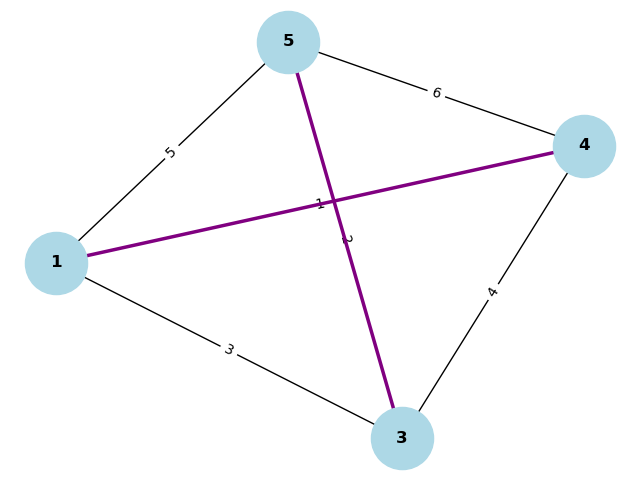
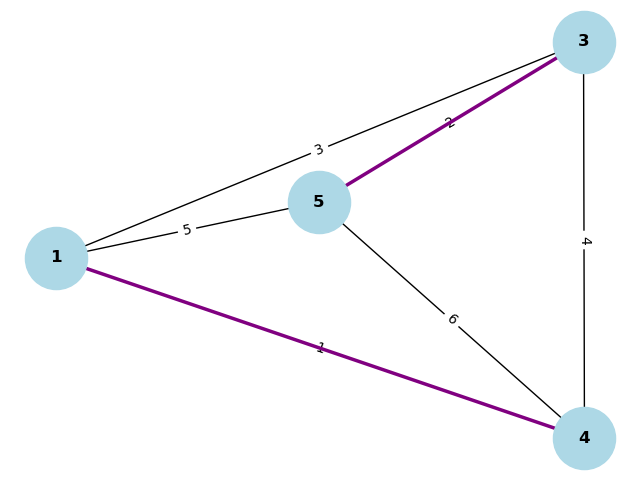
listonosz

diff --git a/lab03/main.py b/lab03/main.py
@@ -6,15 +6,15 @@ from collections import defaultdict
 class Graph:
     def __init__(self, directed=False):
         self.directed = directed
-        self.adj_matrix = []  # Macierz sąsiedztwa
-        self.weights_matrix = []  # Macierz wag krawędzi
+        self.adj_matrix = [] 
+        self.weights_matrix = []  
         self.num_vertices = 0
 
     def add_vertex(self):
         self.num_vertices += 1
         for row in self.adj_matrix:
-            row.append(0)  # Dodajemy kolumnę do macierzy sąsiedztwa
-        self.adj_matrix.append([0] * self.num_vertices)  # Dodajemy nowy wiersz
+            row.append(0) 
+        self.adj_matrix.append([0] * self.num_vertices)  
         # Dodajemy pustą listę dla wag
         self.weights_matrix.append([[] for _ in range(self.num_vertices)])
 
@@ -37,8 +37,8 @@ class Graph:
             return
         i -= 1
         j -= 1
-        self.adj_matrix[i][j] += 1  # Dodajemy krawędź
-        self.weights_matrix[i][j].append(weight)  # Dodajemy wagę krawędzi
+        self.adj_matrix[i][j] += 1  
+        self.weights_matrix[i][j].append(weight) 
         if not self.directed:
             self.adj_matrix[j][i] += 1
             self.weights_matrix[j][i].append(weight)
@@ -52,13 +52,13 @@ class Graph:
         if self.adj_matrix[i][j] == 0:
             print("Krawędź nie istnieje.")
             return
-        if weight is None:  # Usuń jedną krawędź
+        if weight is None: 
             self.adj_matrix[i][j] -= 1
             self.weights_matrix[i][j].pop()
             if not self.directed:
                 self.adj_matrix[j][i] -= 1
                 self.weights_matrix[j][i].pop()
-        else:  # Usuń krawędź o określonej wadze
+        else: 
             if weight in self.weights_matrix[i][j]:
                 self.weights_matrix[i][j].remove(weight)
                 self.adj_matrix[i][j] -= 1
@@ -122,15 +122,11 @@ class Graph:
 
     def draw_graph(self, filename):
         plt.clf()
-
-        # Use MultiGraph or MultiDiGraph to handle multiple edges
         G = nx.MultiDiGraph() if self.directed else nx.MultiGraph()
         size = len(self.adj_matrix)
 
         for i in range(size):
             G.add_node(i + 1)
-
-        # Add edges with their respective weights
         for i in range(size):
             for j in range(size):
                 k = self.adj_matrix[i][j]
@@ -140,35 +136,26 @@ class Graph:
                         G.add_edge(i + 1, j + 1, weight=weight, key=edge_idx)
 
         pos = nx.spring_layout(G)
-
-        # Draw nodes only (skip edges for now)
         nx.draw_networkx_nodes(G, pos, node_color='lightblue', node_size=2000)
         nx.draw_networkx_labels(G, pos, font_weight='bold')
-
-        # Extract edge weights
         edge_labels = {}
         for u, v, key, data in G.edges(data=True, keys=True):
             edge_labels[(u, v, key)] = data['weight']
-
-        # Draw multi-edges manually
         ax = plt.gca()
         for (u, v, key), label in edge_labels.items():
             x0, y0 = pos[u]
             x1, y1 = pos[v]
             if u == v:
-                # Self-loop: draw as a circle
                 loop = FancyArrowPatch((x0, y0), (x0 + 0.1, y0 + 0.1),
                                        connectionstyle=f"arc3,rad={0.3 + 0.1 * key}",
                                        arrowstyle='-', color='black')
                 ax.add_patch(loop)
                 plt.text(x0 + 0.15, y0 + 0.15, str(label), fontsize=10, color='black')
             else:
-                # Multi-edge: draw arcs with different curvature
                 arc = FancyArrowPatch((x0, y0), (x1, y1),
                                       connectionstyle=f"arc3,rad={0.2 * (key - len(G[u][v]) // 2)}",
                                       arrowstyle='-', color='black')
                 ax.add_patch(arc)
-                # Add label at an offset midpoint
                 mid_x = (x0 + x1) / 2 + 0.1 * key
                 mid_y = (y0 + y1) / 2 + 0.1 * key
                 plt.text(mid_x, mid_y, str(label), fontsize=10, ha='center', color='black')
@@ -292,30 +279,10 @@ class Graph:
                         self.add_edge(start, end, weight=weight)
                         print(f"Dodano krawędź: {start} -> {end} o wadze {weight}")
         G_E = self.to_networkx()
-        # Rysowanie grafu po dodaniu nowych krawędzi
         plt.clf()
         self.draw_graph("augmented_graph")
         print("Zapisano graf z dodatkowymi krawędziami do pliku augmented_graph.png")
-
-        # self.display_matrices()
-        return self.adj_matrix
-        # if nx.is_eulerian(G_E):
-        #     # Znajdź cykl Eulera w grafie G_E
-        #     eulerian_cycle = list(nx.eulerian_circuit(G_E))
-        #     print("Cykl Eulera:", eulerian_cycle)
-        #     # Rysowanie cyklu Eulera
-        #     plt.clf()
-        #     pos = nx.spring_layout(G_E)
-        #     nx.draw(G_E, pos, with_labels=True, node_color='lightblue', font_weight='bold', node_size=2000)
-        #     edge_labels = nx.get_edge_attributes(G_E, 'weight')
-        #     nx.draw_networkx_edge_labels(G_E, pos, edge_labels=edge_labels)
-        #     # Zaznaczenie krawędzi w cyklu Eulera
-        #     cycle_edges = [(u, v) for u, v in eulerian_cycle]
-        #     nx.draw_networkx_edges(G_E, pos, edgelist=cycle_edges, edge_color='green', width=2.5)
-        #     plt.savefig("eulerian_cycle.png")
-        #     print("Cykl Eulera zapisano do pliku eulerian_cycle.png")
-        # else:
-        #     print("Graf G_E nie jest eulerowski, cykl Eulera nie istnieje.")
+        return self.adj_matrix, self.weights_matrix
 
     def to_networkx(self):
         G = nx.Graph()
@@ -327,50 +294,44 @@ class Graph:
         return G
 
 
-# Example usage
+
 g = Graph()
 g.load_from_file("file.txt")
 g.draw_graph("basegraph")
-adjMatrix = g.chineese_postman()
-
-# G = nx.Graph()
-# for i in range(len(adjMatrix)):
-#     for j in range(i, len(adjMatrix)):
-#         for _ in range(adjMatrix[i][j]):
-#             G.add_edge(i, j)
-# if nx.is_eulerian(G):
-#     euler_cycle = list(nx.eulerian_circuit(G))
-#     print(euler_cycle)
-# else:
-#     print("Graf nie ma cyklu Eulera")
+adjMatrix, wMatrix = g.chineese_postman()
 
 
 def find_eulerian_cycle(graph):
-    # Tworzymy graf skierowany
-    G = nx.MultiGraph()  # MultiGraph obsługuje krawędzie wielokrotne
-
-    # Dodajemy krawędzie do grafu z uwzględnieniem liczby krawędzi
+    G = nx.MultiGraph()
     for i in range(len(graph)):
-        for j in range(i + 1, len(graph)):  # Unikamy dodawania tych samych krawędzi dwukrotnie
+        for j in range(i + 1, len(graph)):
             if graph[i][j] > 0:
-                for _ in range(graph[i][j]):  # Dodajemy wielokrotne krawędzie
+                for _ in range(graph[i][j]):
                     G.add_edge(i, j)
 
-    # Sprawdzamy, czy graf ma cykl Eulera
     if nx.is_eulerian(G):
-        # Znajdujemy cykl Eulera
         cycle = list(nx.eulerian_circuit(G))
-        # Zwiększamy o 1 numery wierzchołków w cyklu
-
         return cycle
     else:
         return None
 
 cycle = find_eulerian_cycle(adjMatrix)
+print("Cykl listonosza:")
 if cycle:
     for u, v in cycle:
         print(f"({u+1}, {v+1})", end=" ")
     print()
-    # print("Cykl Eulera:", cycle)
 else:
     print("Graf nie ma cyklu Eulera")
+
+
+sumw= 0
+for i, j in cycle:
+    sumw += wMatrix[i][j][0]
+    
+print(f"Długość trasy: {sumw}")
+
+
+
+
+    
